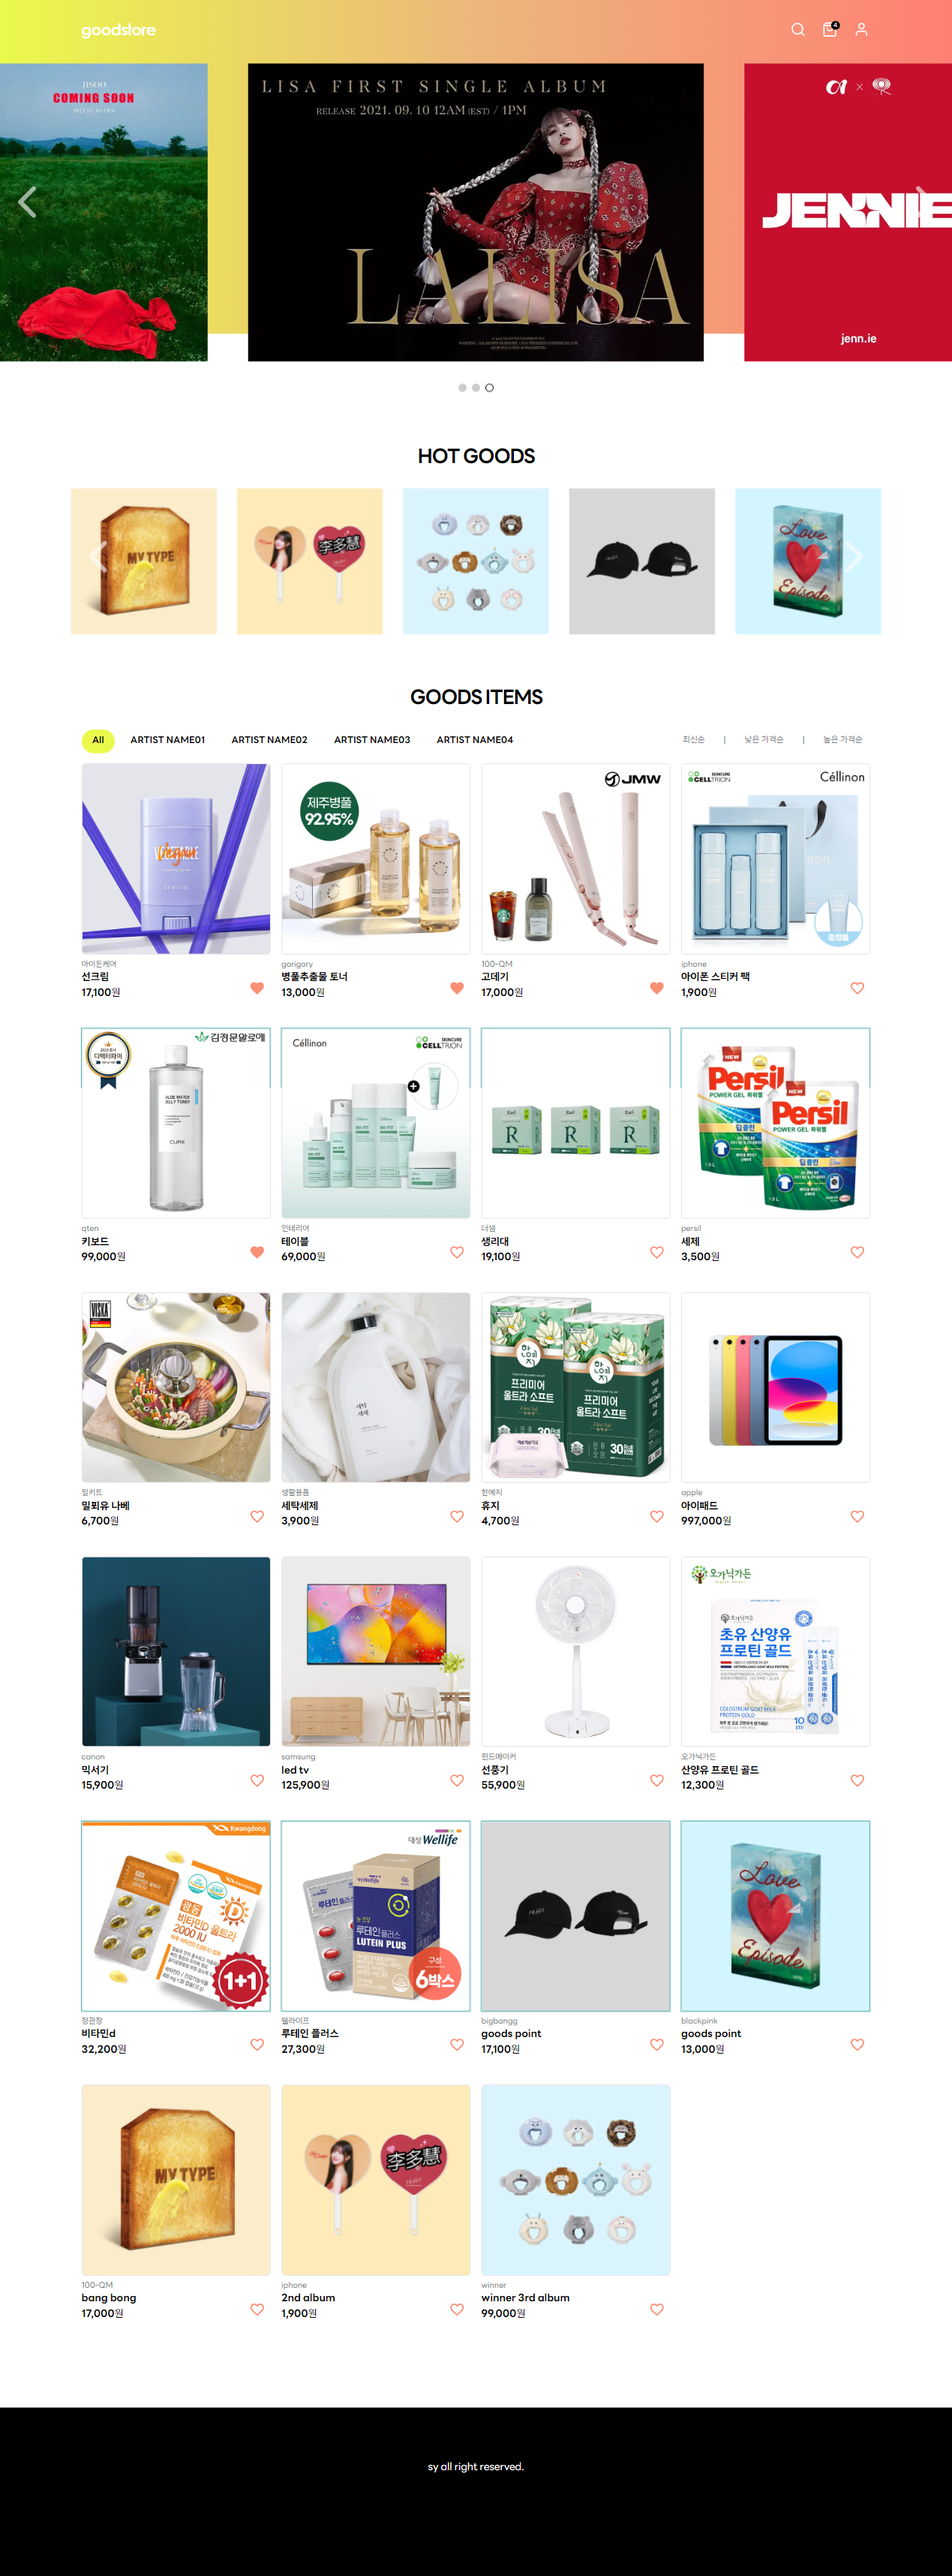
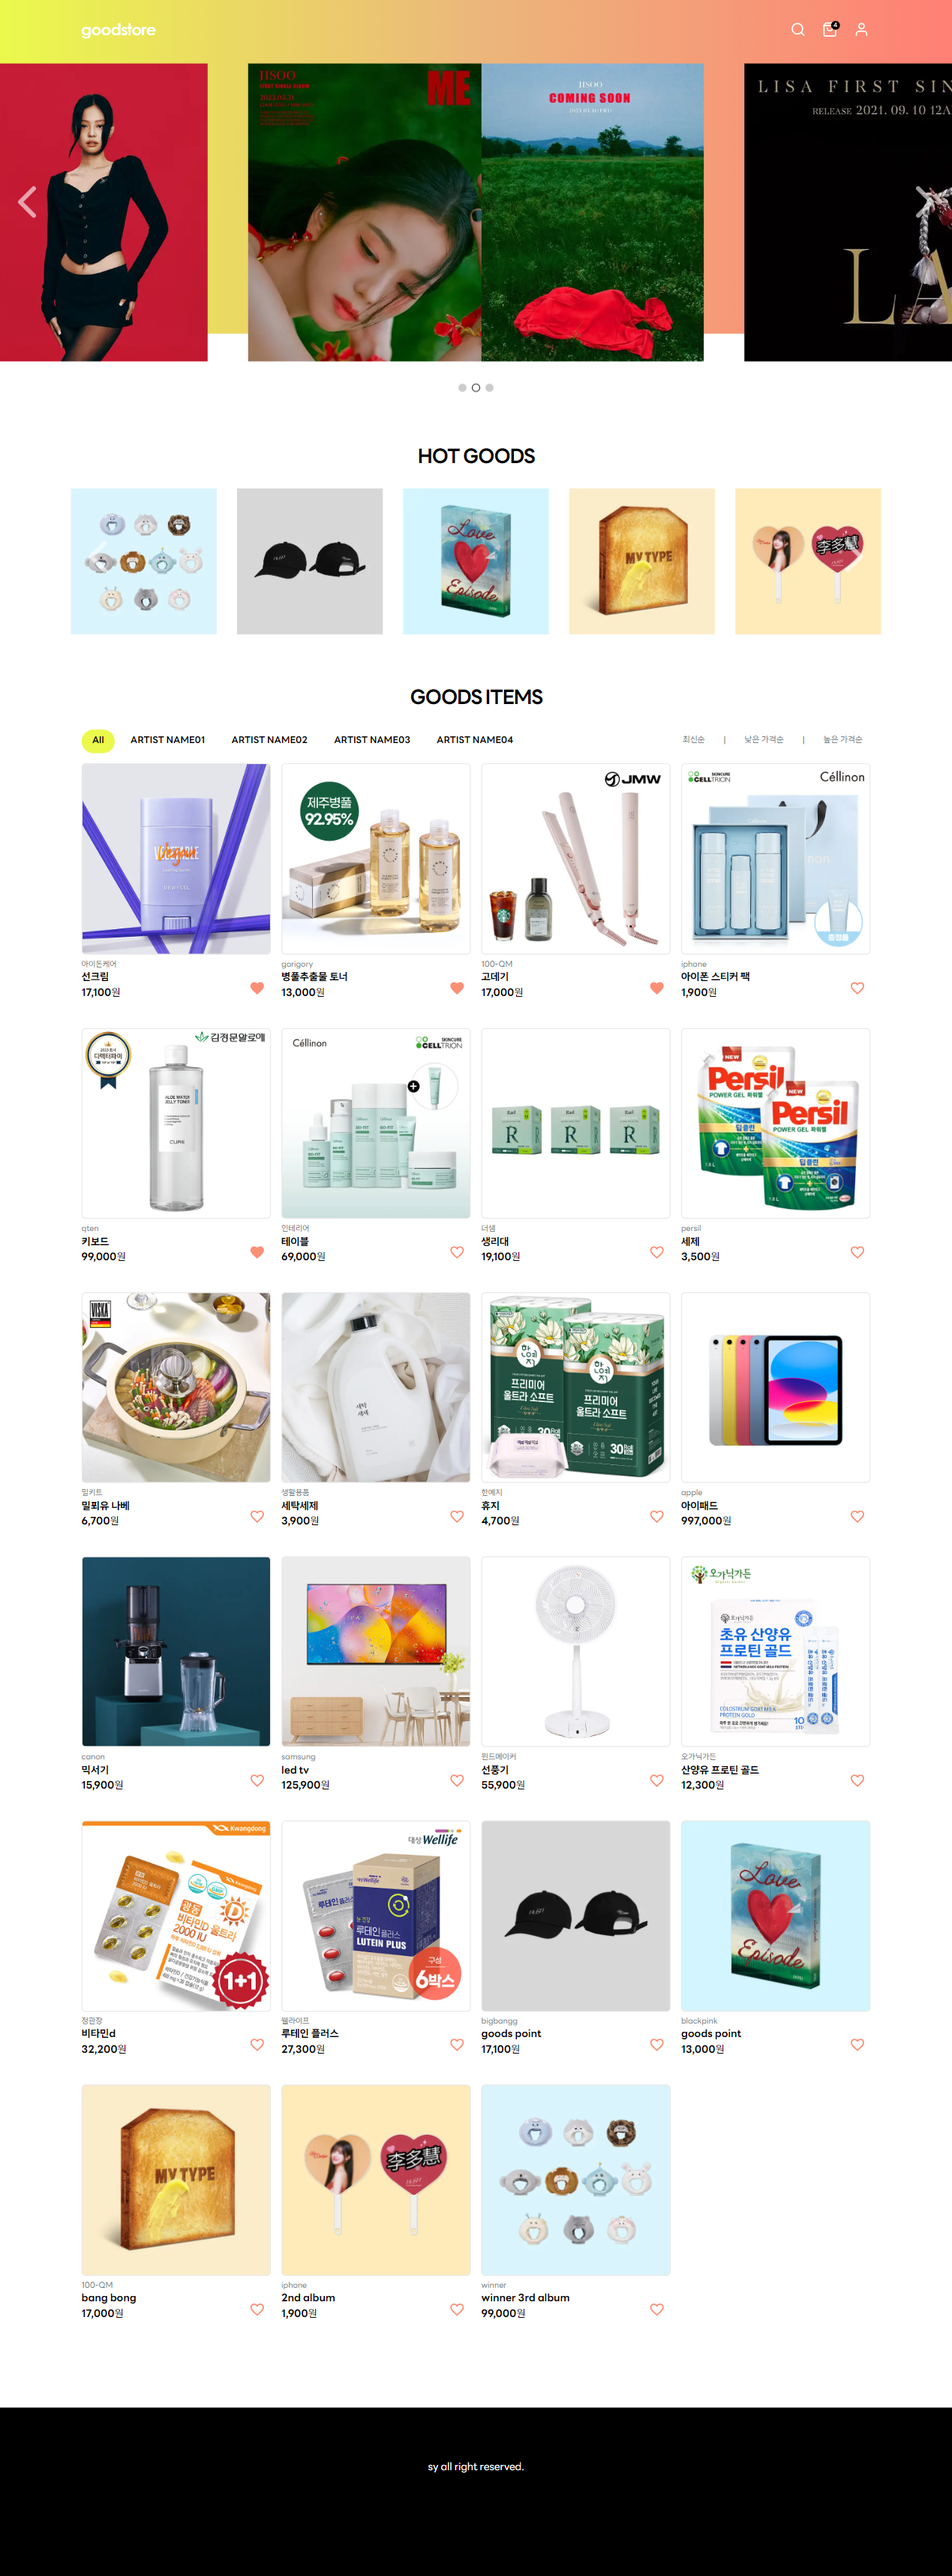
굿즈토어 이미지 추가

diff --git a/src/data/ImgData.jsx b/src/data/ImgData.jsx
@@ -88,8 +88,10 @@ export const ImgArray = [
     img4: "/img/screen/9_4.png",
     img5: "/img/screen/9_5.png",
     img6: "/img/screen/9_6.png",
+    img7: "/img/screen/9_7.png",
     mimg1: "/img/screen/m9_1n.png",
     mimg2: "/img/screen/m9_2n.png",
+    mimg3: "/img/screen/m9_3n.png",
   },
   {
     id: 10,
